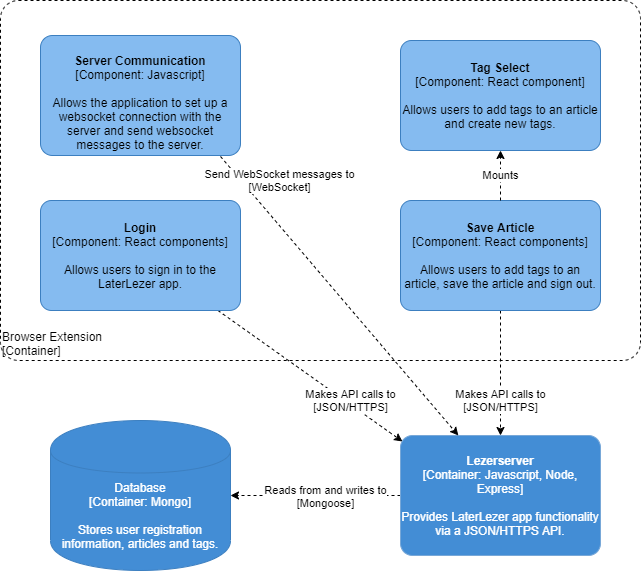
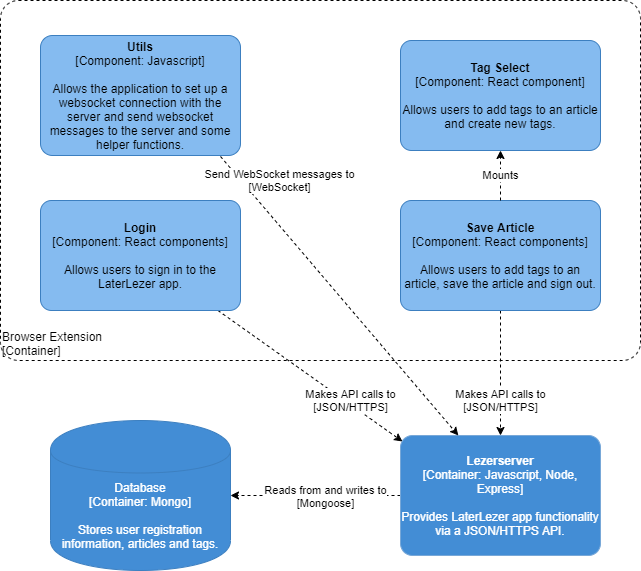
updated diagrams and renamed serverCommunication to websocketCommunication

Changed region(s): [[0.0624, 0.0595, 0.3744, 0.268]]

diff --git a/lezerapp/src/app/views/sharedcomponents/dock/Dock.jsx b/lezerapp/src/app/views/sharedcomponents/dock/Dock.jsx
@@ -5,7 +5,7 @@ import LockIcon from '@material-ui/icons/Lock';
 import { GoogleLogout } from 'react-google-login';
 import { useDispatch } from 'react-redux';
 import { setSelectedTags } from '../../../../store/tagSlice';
-import { closeWebSocket, openWebSocket } from '../../../../utils/serverCommunication';
+import { closeWebSocket, openWebSocket } from '../../../../utils/websocketCommunication';
 
 const Dock = ({ profilePicture }) => {
   const dispatch = useDispatch();

diff --git a/extension/src/components/saveArticle/SaveArticle.jsx b/extension/src/components/saveArticle/SaveArticle.jsx
@@ -5,7 +5,7 @@ import { post } from 'axios';
 import chroma from 'chroma-js';
 
 import TagListSelect from '../tagListSelect/TagListSelect';
-import { openWebSocket } from '../../utils/serverCommunication';
+import { openWebSocket } from '../../utils/websocketCommunication';
 
 function SaveArticle({ setUser, user, autoLoggedIn }) {
   const [loaded, setLoaded] = useState('waitForSelect');
